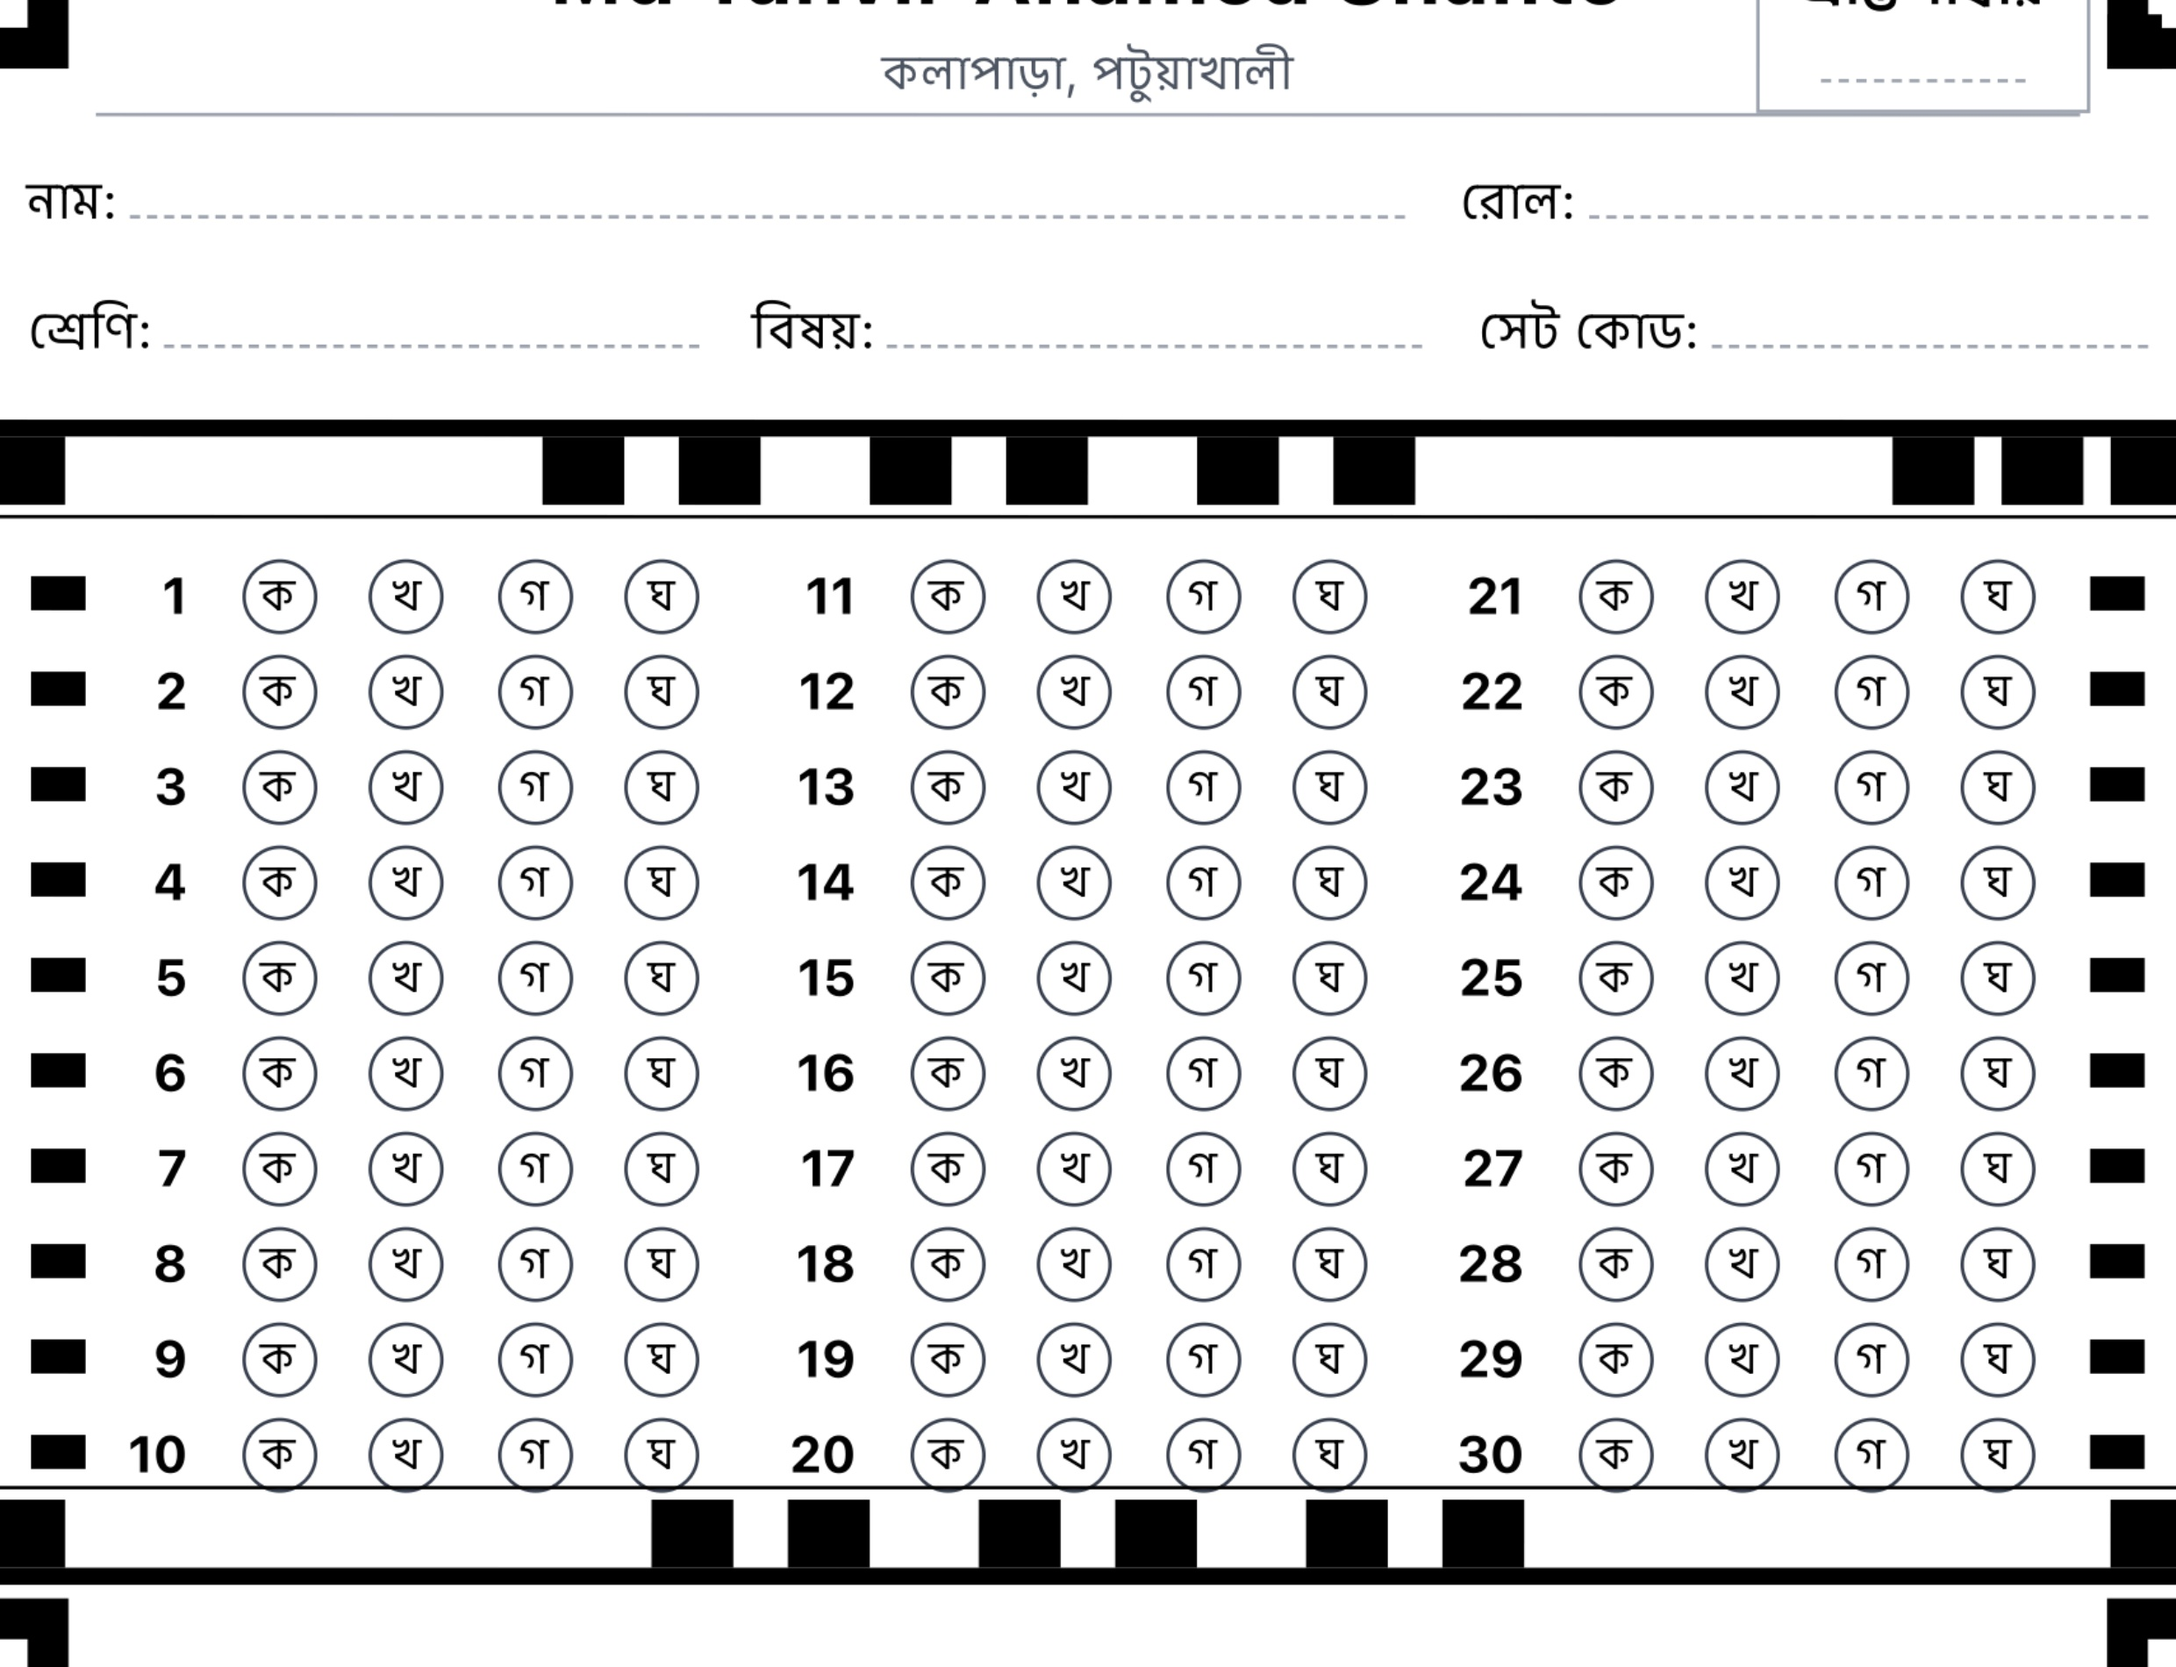
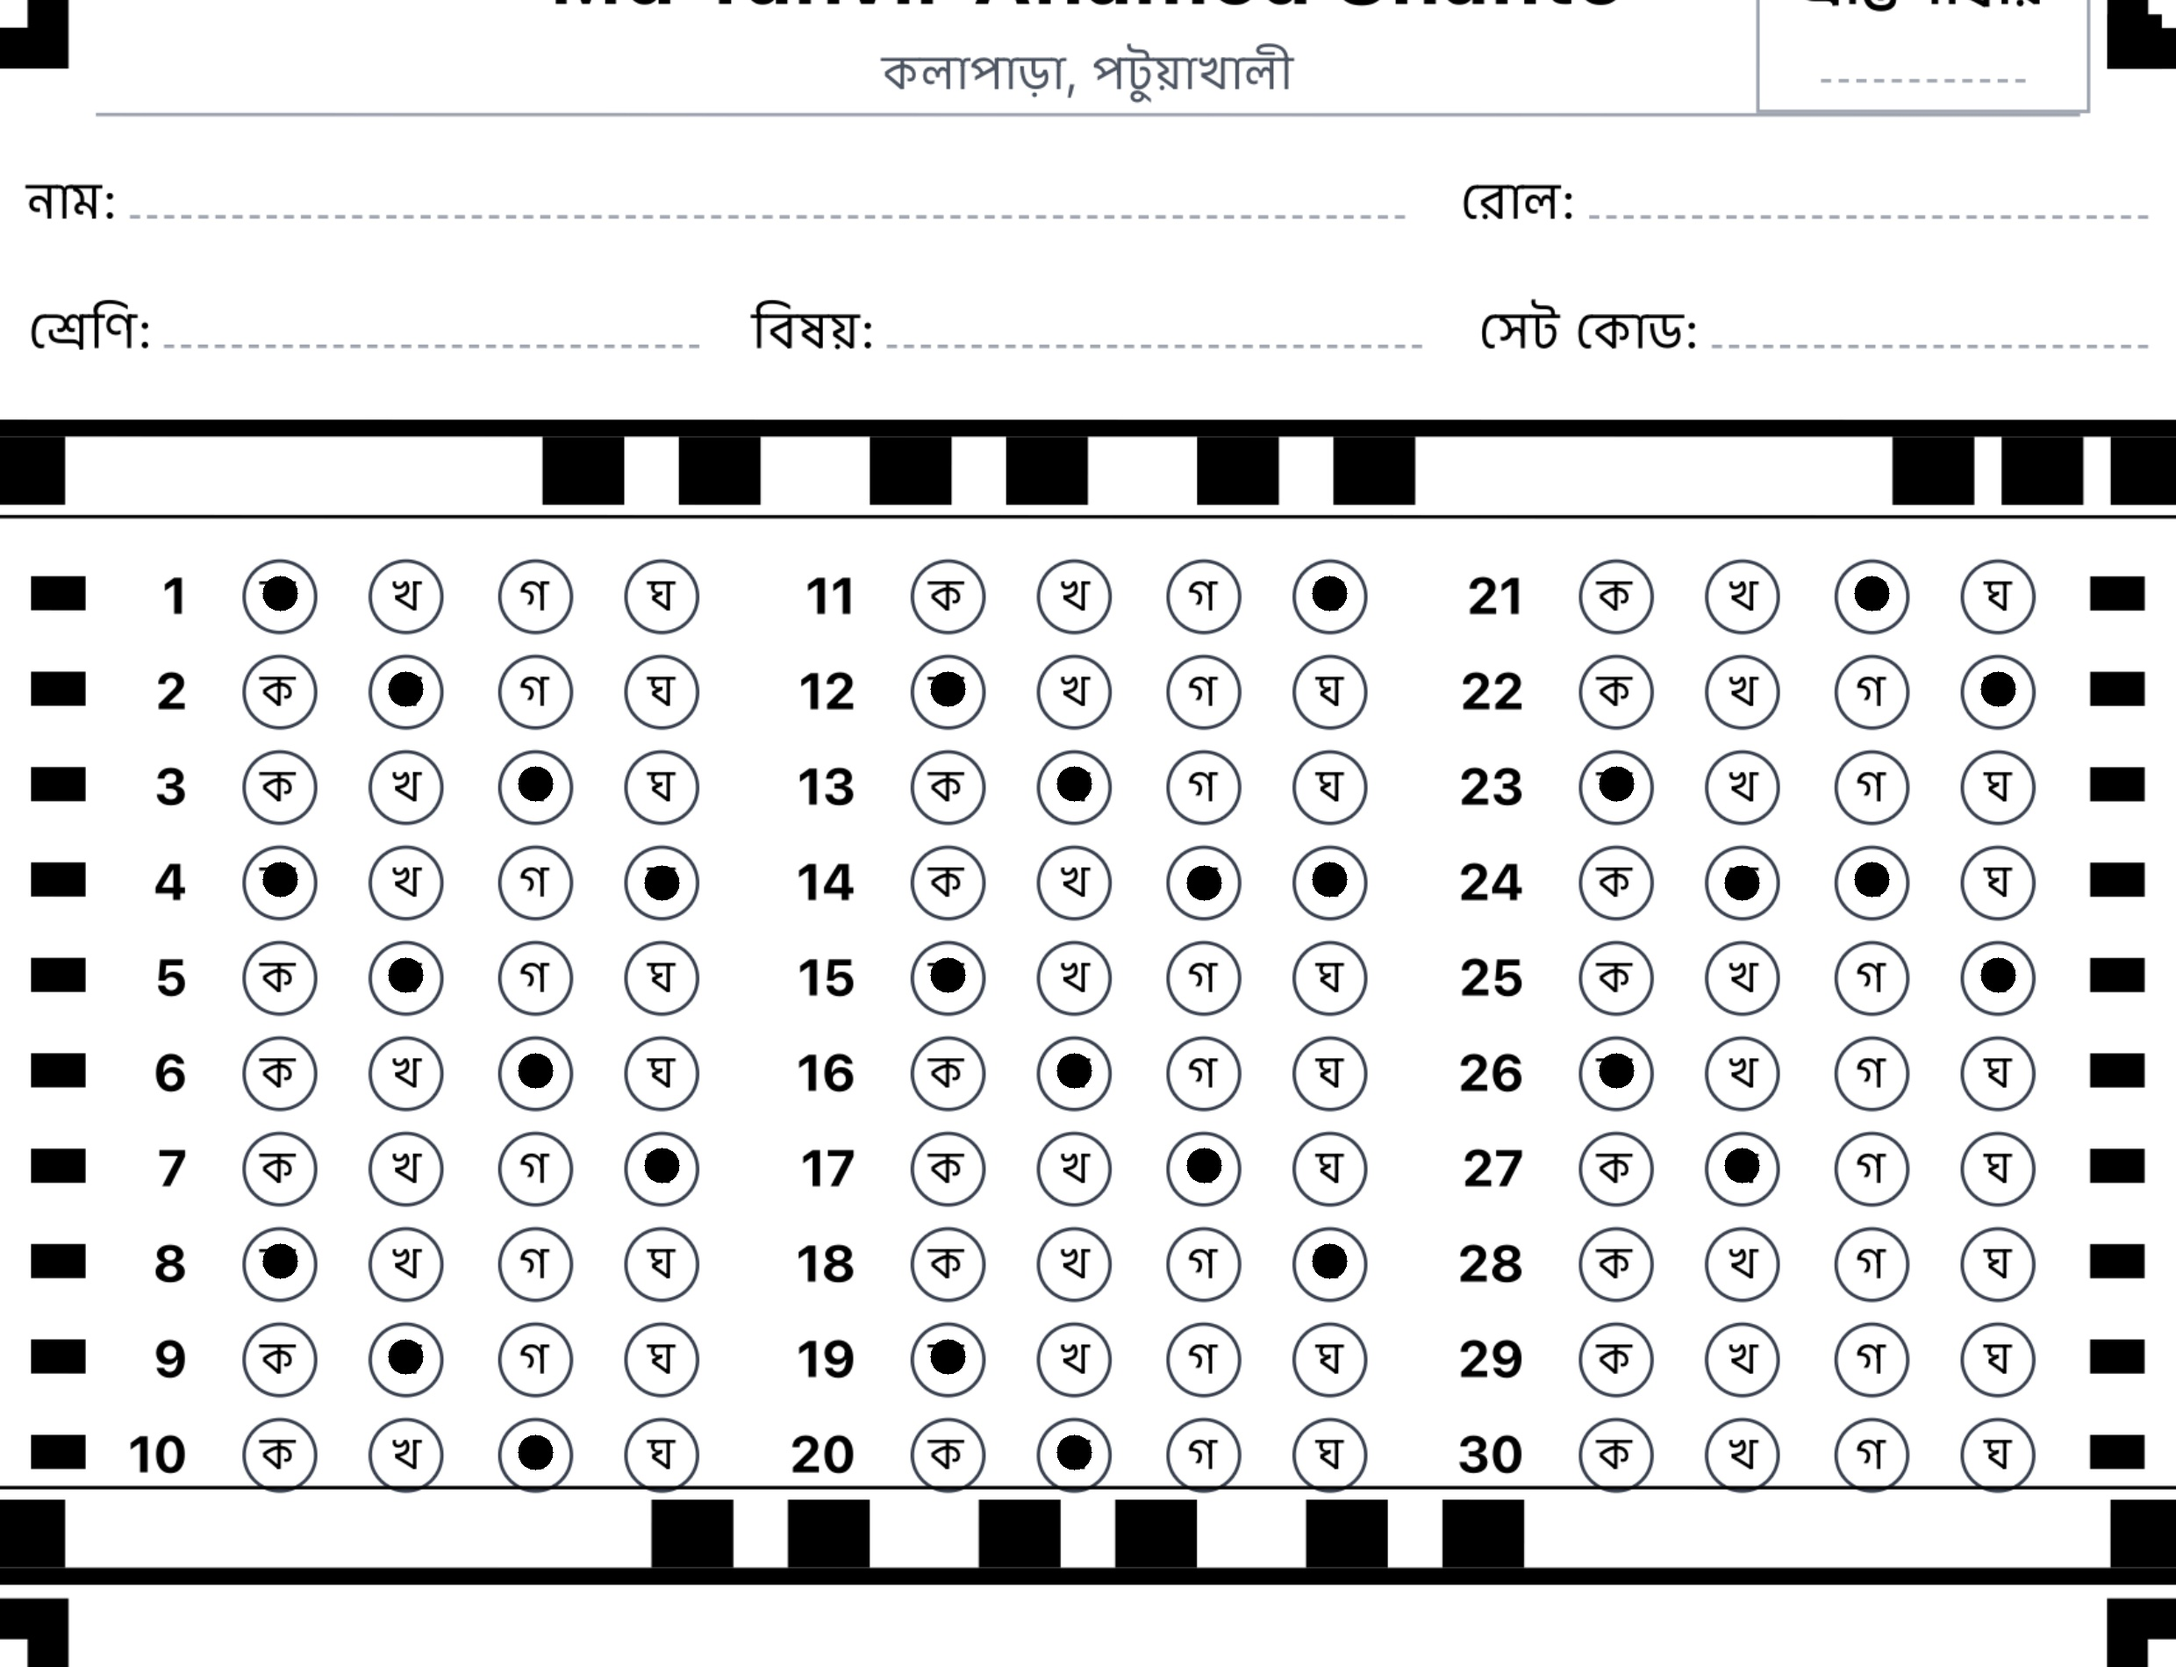
feat: Implement OMR answer extraction for normal sheet layouts and integrate it as a fallback in the OMR engine.

diff --git a/app/utils/omr_engine.py b/app/utils/omr_engine.py
@@ -357,7 +357,125 @@ def _read_set_code(
     )
     return codes[idx] if idx >= 0 else "?"
 
+def _extract_normal_omr_answers(warped: np.ndarray, total_questions: int) -> list:
+    answers = [-1] * total_questions
+    gray = cv2.cvtColor(warped, cv2.COLOR_BGR2GRAY) if len(warped.shape) == 3 else warped.copy()
+    thresh = cv2.adaptiveThreshold(
+        gray, 255, cv2.ADAPTIVE_THRESH_GAUSSIAN_C, cv2.THRESH_BINARY_INV, 21, 10
+    )
 
+    h_img, w_img = warped.shape[:2]
+
+    # 1. Find the Y coordinates using left timing marks
+    contours, _ = cv2.findContours(thresh, cv2.RETR_EXTERNAL, cv2.CHAIN_APPROX_SIMPLE)
+    t_marks = []
+    for cnt in contours:
+        x, y, w, h = cv2.boundingRect(cnt)
+        aspect_ratio = w / float(h + 1e-6)
+        if 800 < w * h < 12000 and x < w_img * 0.15: # Target left edge
+            hull = cv2.convexHull(cnt)
+            hull_area = cv2.contourArea(hull)
+            if hull_area > 0:
+                solidity = float(cv2.contourArea(cnt)) / hull_area
+                if solidity > 0.9 and 1.0 < aspect_ratio < 2.0:
+                    # Also need to make sure the inside is completely dark
+                    roi = warped[y:y+h, x:x+w]
+                    gray_roi = cv2.cvtColor(roi, cv2.COLOR_BGR2GRAY) if len(roi.shape) == 3 else roi
+                    if np.mean(gray_roi) < 100:
+                        t_marks.append((x, y, w, h))
+
+    t_marks.sort(key=lambda m: m[1])
+    # Each row is vertically centered to the tracking mark
+    row_centers = [y + h // 2 for (x, y, w, h) in t_marks]
+    
+    print(f"Row Centers ({len(row_centers)}): {row_centers}")
+    if len(row_centers) == 0:
+        return answers # Failed completely
+
+    rows_count = len(row_centers)
+    num_cols = (total_questions + rows_count - 1) // rows_count
+
+    # 2. Find the X coordinates using perfectly printed bubbles
+    b_contours, _ = cv2.findContours(thresh, cv2.RETR_TREE, cv2.CHAIN_APPROX_SIMPLE)
+    bubble_xs = []
+    for cnt in b_contours:
+        x, y, w, h = cv2.boundingRect(cnt)
+        area = w * h
+        if 3000 < area < 8000 and 0.8 < (w / (h + 1e-6)) < 1.2:
+            peri = cv2.arcLength(cnt, True)
+            if peri > 0:
+                circ = 4 * np.pi * (cv2.contourArea(cnt) / (peri * peri))
+                if 0.8 < circ <= 1.2:
+                    bubble_xs.append(x + w // 2)
+
+    if len(bubble_xs) < num_cols * 4: # Not enough valid shapes
+        return answers
+
+    # Cluster X coordinates (radius 20px)
+    bubble_xs.sort()
+    clusters = []
+    current_cluster = [bubble_xs[0]]
+    for i in range(1, len(bubble_xs)):
+        if bubble_xs[i] - bubble_xs[i-1] < 20: 
+            current_cluster.append(bubble_xs[i])
+        else:
+            clusters.append(int(np.median(current_cluster)))
+            current_cluster = [bubble_xs[i]]
+    clusters.append(int(np.median(current_cluster)))
+
+    b_xs_arr = np.array(bubble_xs)
+    valid_clusters = []
+    for cluster_x in clusters:
+        # Require cluster to appear in at least 25% of rows
+        count = np.sum(np.abs(b_xs_arr - cluster_x) < 20)
+        if count >= max(1, rows_count * 0.25):
+            valid_clusters.append(cluster_x)
+            
+    valid_clusters.sort()
+    expected_cols = num_cols * 4
+    if len(valid_clusters) < expected_cols:
+        return answers
+        
+    x_grid = valid_clusters[:expected_cols]
+
+    # Draw debug points
+    debug_img = warped.copy()
+    if len(debug_img.shape) == 2:
+        debug_img = cv2.cvtColor(debug_img, cv2.COLOR_GRAY2BGR)
+
+    # Generate answers based on intersections!
+    for q in range(total_questions):
+        c_idx = q // rows_count
+        r_idx = q % rows_count
+        if r_idx >= len(row_centers): continue
+            
+        cy = row_centers[r_idx]
+        max_density = 0
+        marked_opt = -1
+        
+        for opt in range(4):
+            x_idx = c_idx * 4 + opt
+            if x_idx >= len(x_grid): continue
+            cx = x_grid[x_idx]
+            
+            box_r = 25
+            roi_y1, roi_y2 = max(0, cy - box_r), min(h_img, cy + box_r)
+            roi_x1, roi_x2 = max(0, cx - box_r), min(w_img, cx + box_r)
+            
+            cv2.rectangle(debug_img, (roi_x1, roi_y1), (roi_x2, roi_y2), (0, 0, 255), 2)
+            
+            d = _get_bubble_density(warped[roi_y1:roi_y2, roi_x1:roi_x2])
+            if d > 0.2:
+                print(f"Q{q} Opt{opt}: density={d:.2f}, cx={cx}, cy={cy}")
+
+            if d > 0.25 and d > max_density:
+                max_density = d
+                marked_opt = opt
+                
+        answers[q] = marked_opt
+        
+    cv2.imwrite("debug_rois_normal.jpg", debug_img)
+    return answers
 class OMRProcessor:
     """
     OMR processing class - encapsulates all OMR logic.
@@ -400,7 +518,9 @@ class OMRProcessor:
             # Find corner markers and warp
             markers = _find_corner_markers(blurred)
             if markers is None:
-                warped = cv2.resize(gray, (self.sheet_width, self.sheet_height))
+                aspect = gray.shape[0] / float(gray.shape[1])
+                target_h = int(self.sheet_width * aspect)
+                warped = cv2.resize(gray, (self.sheet_width, target_h))
             else:
                 warped = _warp_perspective(img, markers)
                 if len(warped.shape) == 3:
@@ -482,6 +602,10 @@ class OMRProcessor:
                     if marked >= 0:
                         bubbles_detected += 1
                     answers.append(marked)
+            else:
+                print("Fallback: Using proportional matrix mapping for NormalOMRLayout...")
+                answers = _extract_normal_omr_answers(warped, self.total_questions)
+                bubbles_detected = sum(1 for a in answers if a >= 0)
             
             result.answers = answers
 

diff --git a/simulate_marks_normal.py b/simulate_marks_normal.py
@@ -1,0 +1,90 @@
+import cv2
+import numpy as np
+from app.utils.omr_engine import _preprocess_image, _find_corner_markers
+
+img = cv2.imread("omrsheet.png")
+blurred = _preprocess_image(img)
+markers = _find_corner_markers(blurred)
+
+if markers is None:
+    aspect = gray.shape[0] / float(gray.shape[1])
+    target_h = int(2480 * aspect)
+    warped = cv2.resize(cv2.cvtColor(img, cv2.COLOR_BGR2GRAY), (2480, target_h))
+    warped_color = cv2.resize(img, (2480, target_h))
+else:
+    from app.utils.omr_engine import _warp_perspective
+    warped = _warp_perspective(img, markers)
+    warped_color = warped.copy()
+    if len(warped.shape) == 3:
+        warped = cv2.cvtColor(warped, cv2.COLOR_BGR2GRAY)
+
+thresh = cv2.adaptiveThreshold(
+    warped, 255, cv2.ADAPTIVE_THRESH_GAUSSIAN_C, cv2.THRESH_BINARY_INV, 21, 10
+)
+
+# Extract timing marks to get row clusters
+contours, _ = cv2.findContours(thresh, cv2.RETR_EXTERNAL, cv2.CHAIN_APPROX_SIMPLE)
+t_marks = []
+h_img, w_img = warped.shape[:2]
+for cnt in contours:
+    x, y, w, h = cv2.boundingRect(cnt)
+    if 800 < w * h < 12000 and x < w_img * 0.15:
+        hull = cv2.convexHull(cnt)
+        hull_area = cv2.contourArea(hull)
+        if hull_area > 0:
+            solidity = float(cv2.contourArea(cnt)) / hull_area
+            if solidity > 0.9 and 1.0 < (w / h) < 2.0:
+                t_marks.append((x, y, w, h))
+
+t_marks.sort(key=lambda m: m[1])
+row_centers = [y + h // 2 for (x, y, w, h) in t_marks]
+
+# Extract bubbles
+b_contours, _ = cv2.findContours(thresh, cv2.RETR_TREE, cv2.CHAIN_APPROX_SIMPLE)
+bubble_xs = []
+for cnt in b_contours:
+    x, y, w, h = cv2.boundingRect(cnt)
+    area = w * h
+    if 3000 < area < 8000 and 0.8 < (w / (h + 1e-6)) < 1.2:
+        peri = cv2.arcLength(cnt, True)
+        if peri > 0:
+            circ = 4 * np.pi * (cv2.contourArea(cnt) / (peri * peri))
+            if 0.8 < circ <= 1.2:
+                bubble_xs.append(x + w // 2)
+
+bubble_xs.sort()
+clusters = []
+current_cluster = [bubble_xs[0]]
+for i in range(1, len(bubble_xs)):
+    if bubble_xs[i] - bubble_xs[i-1] < 20: 
+        current_cluster.append(bubble_xs[i])
+    else:
+        clusters.append(int(np.median(current_cluster)))
+        current_cluster = [bubble_xs[i]]
+clusters.append(int(np.median(current_cluster)))
+
+b_xs_arr = np.array(bubble_xs)
+valid_clusters = []
+for cluster_x in clusters:
+    count = np.sum(np.abs(b_xs_arr - cluster_x) < 20)
+    if count >= max(1, len(row_centers) * 0.25):
+        valid_clusters.append(cluster_x)
+        
+valid_clusters.sort()
+x_grid = valid_clusters[:len(row_centers) * 4]
+
+# Draw simulated marks
+expected_answers = []
+for q in range(30): # Hardcoded for this sheet
+    c_idx = q // len(row_centers)
+    r_idx = q % len(row_centers)
+    cy = row_centers[r_idx]
+    
+    ans = q % 4  # 0, 1, 2, 3 pattern
+    cx = x_grid[c_idx * 4 + ans]
+    cv2.circle(warped_color, (cx, cy), 20, (0, 0, 0), -1)
+    expected_answers.append(ans)
+
+cv2.imwrite("simulated_marked.jpg", warped_color)
+print("Saved simulated_marked.jpg")
+print("Expected Answers:", expected_answers)

diff --git a/test_simulated.py b/test_simulated.py
@@ -2,7 +2,11 @@ import cv2
 from app.utils.omr_engine import process_omr_image
 
 if __name__ == "__main__":
-    img_path = "test_omr.jpg"
+    import sys
+    if len(sys.argv) > 1:
+        img_path = sys.argv[1]
+    else:
+        img_path = "omrsheet-board.jpg"
     res = process_omr_image(img_path, num_questions=100)
     print("Success:", res.success)
     print("Error:", res.error_message)

diff --git a/extract_dynamic_layout.py b/extract_dynamic_layout.py
@@ -58,7 +58,7 @@ def get_dynamic_zones(warped, total_questions=100):
     }
 
 if __name__ == "__main__":
-    img = cv2.imread("omrsheet.png")
+    img = cv2.imread("omrsheet-board.jpg")
     blurred = _preprocess_image(img)
     markers = _find_corner_markers(blurred)
     if markers is None:
